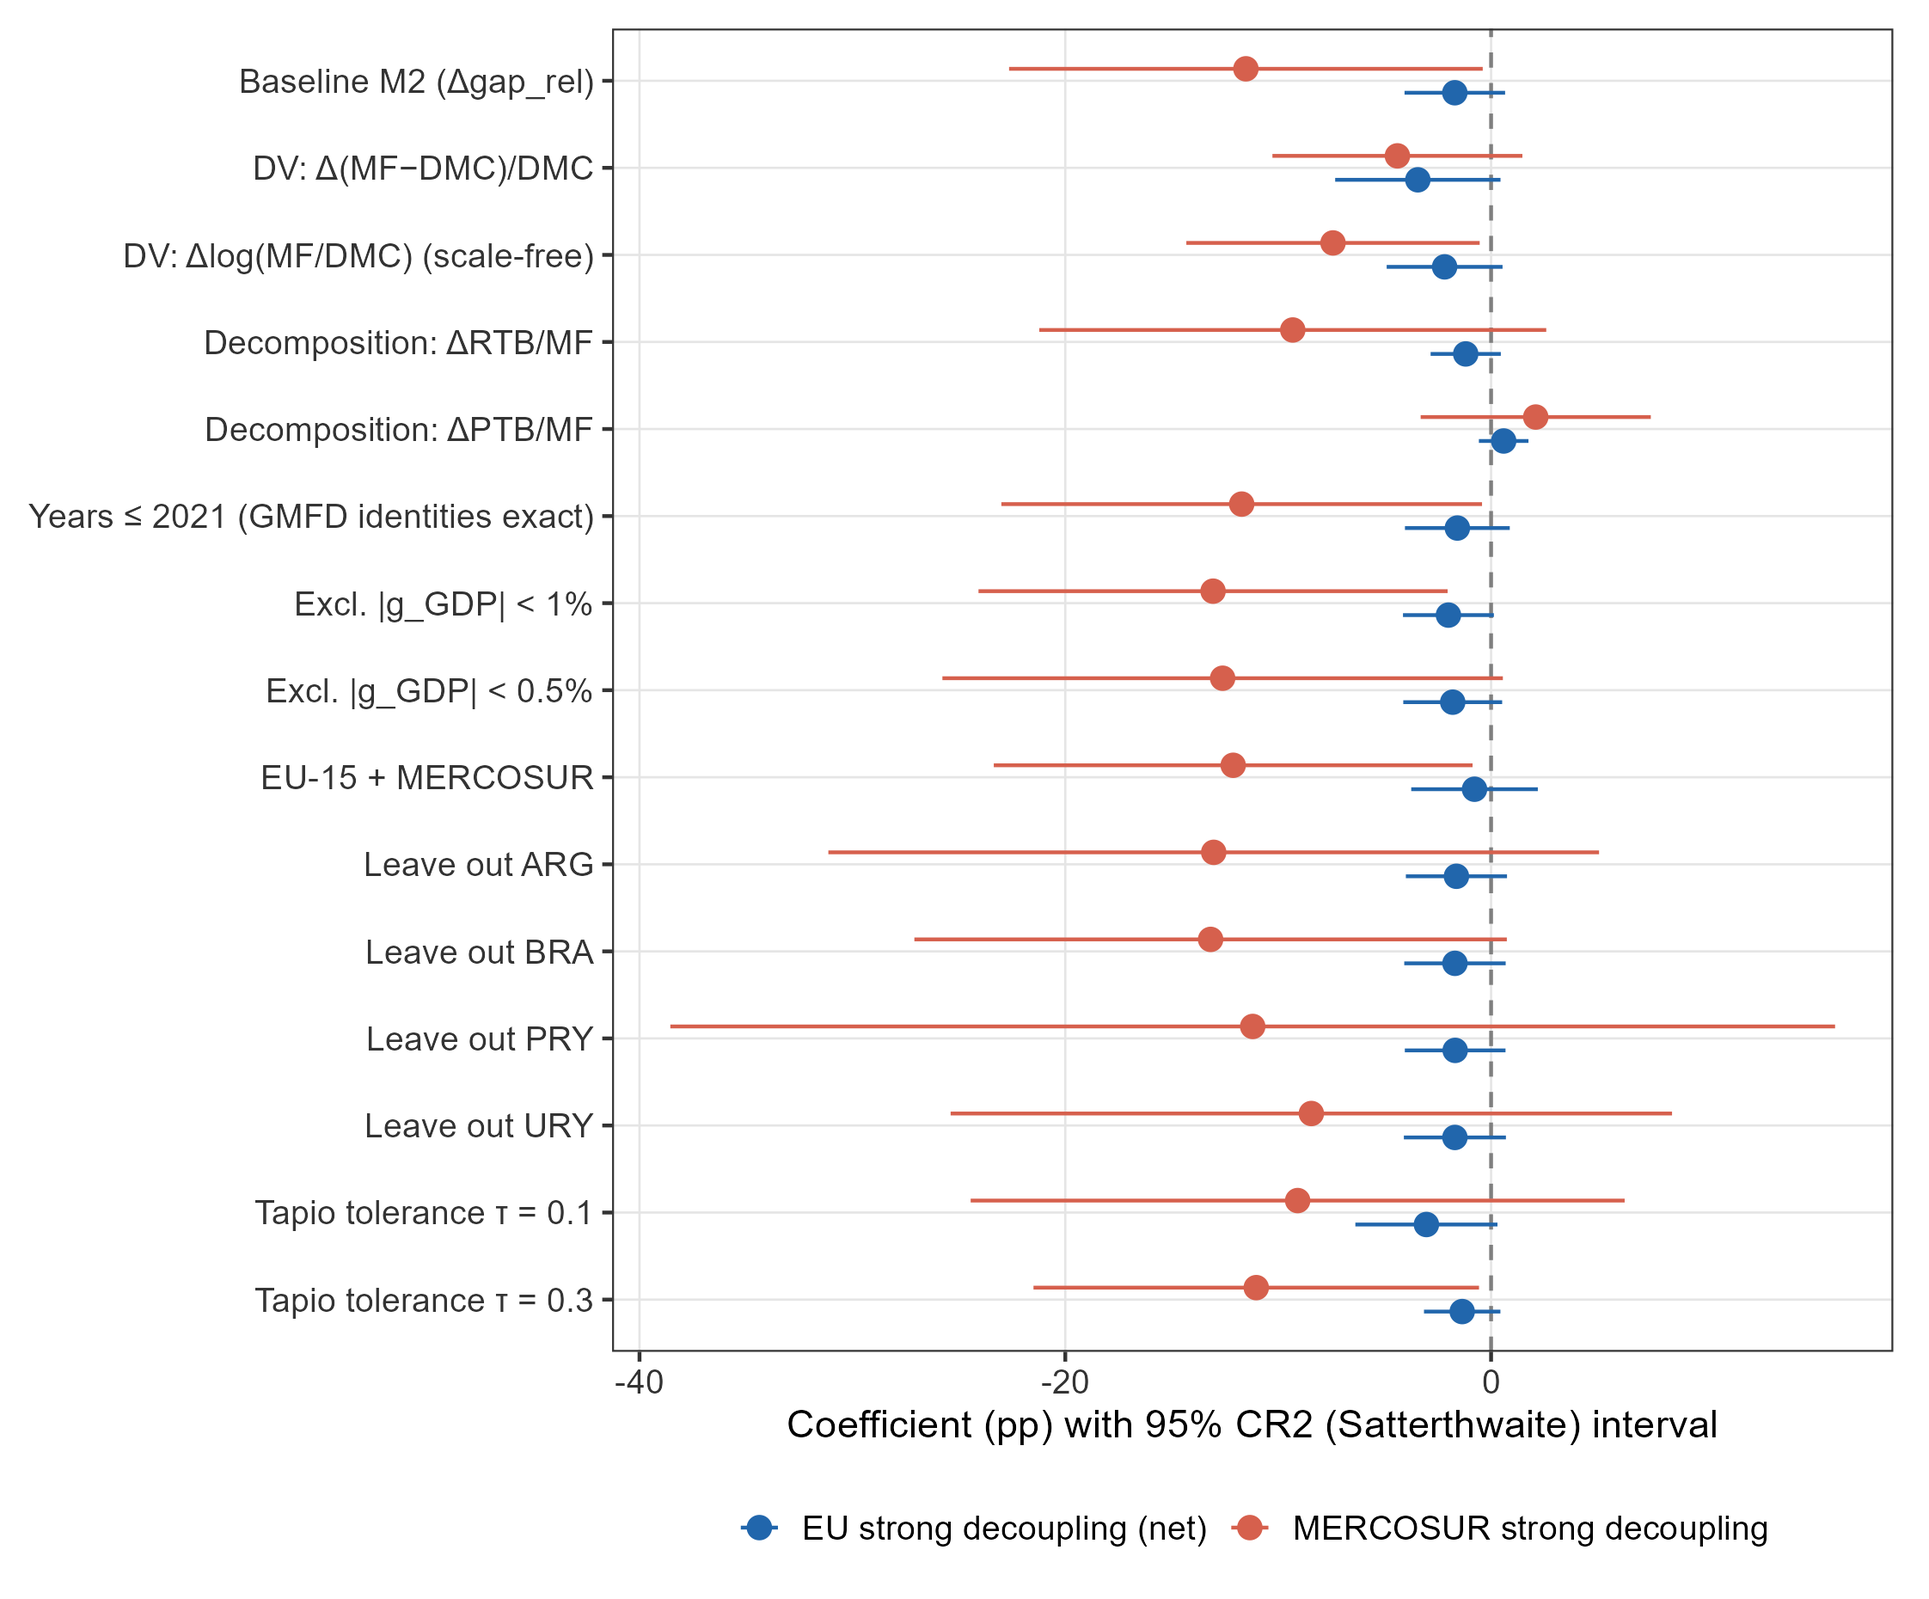
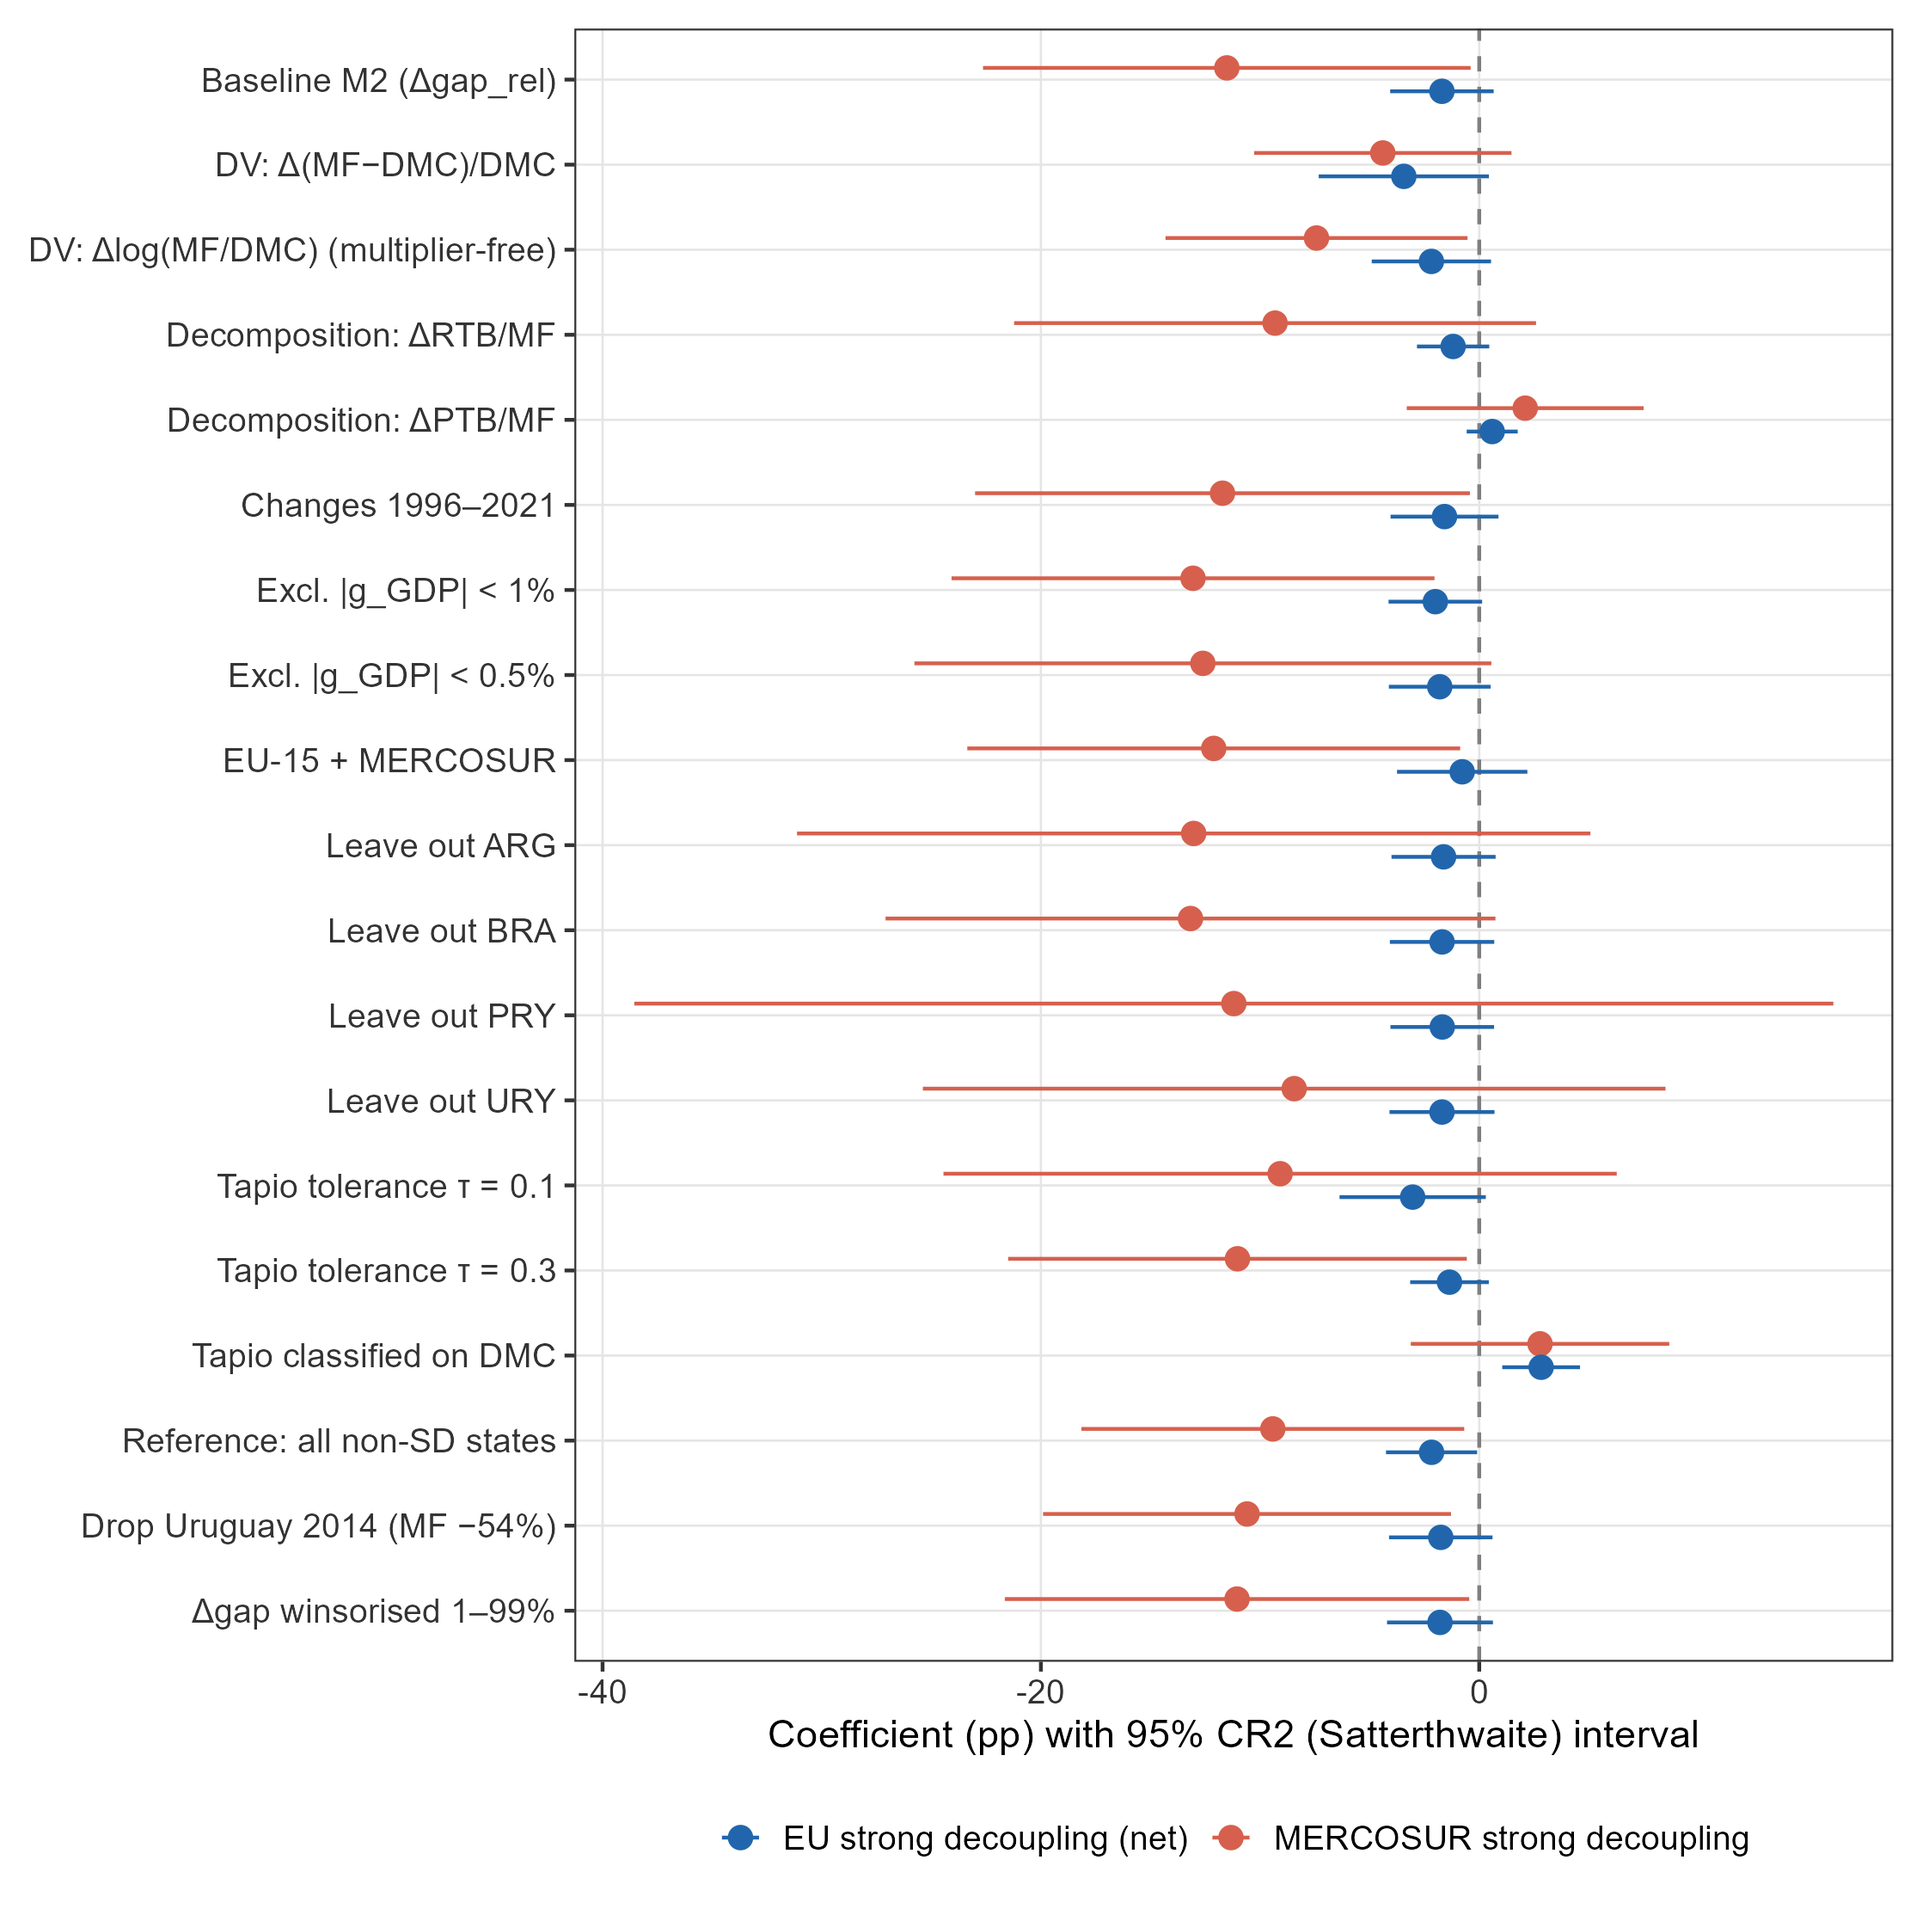
v1.4.1: audit fixes (global log-ratio lag bug, DMC placebo, permutation tests, K=2 bootstrap script)
- 07: both outcomes computed before filtering (previous version lagged the log
  ratio after filtering, losing each country's first year); groupings by median
  gap 1994-2021 and by early RTB/MF sign; unwinsorised variants; DMC placebo.
- 12_audit_checks.R (new): Tapio on DMC placebo, all-other-states reference,
  drop URY 2014, winsorised outcome; country-label permutation tests; stratified
  K=2 bootstrap (B = 2000) now in code.
- 10: forest plot includes the audit specifications.
- README: new script and tables.

Claude-Session: https://claude.ai/code/session_01HrmRDcM4ossY9U3EvkahNF

Changed region(s): [[0.0312, 0.0, 0.967, 0.9667]]

diff --git a/README.md b/README.md
@@ -12,7 +12,7 @@
 - **Indicator interpretation.** gap_rel = (MF − DMC)/MF = RTB/MF − PTB/MF: the share of the material footprint that DMC does not record (net upstream extraction embodied in trade). The companion ratio RTB/MF = 1 − DE/MF (net imported extraction) is now reported (`07_decomposition_global.R`).
 - **Small-cluster inference** for the four MERCOSUR clusters: CR2 + Satterthwaite, wild cluster restricted bootstrap (Webb weights, B = 9,999), exact randomisation inference over all C(31,4) = 31,465 assignments; robustness magnitudes with CR2 intervals (`08_small_cluster_inference.R`).
 - **HMM model selection** by leave-one-country-out cross-validation: K = 2 is selected and is now the main specification; K = 3 is a sensitivity analysis (`09_hmm_cv.R`).
-- **Global replication** on 158 countries, Tapio-tolerance robustness, country descriptives and mechanism descriptives (`07_decomposition_global.R`, `11_revision_r3.R`).
+- **Global replication** on 158 countries (with alternative groupings, unwinsorised outcomes and a DMC placebo), Tapio-tolerance robustness, country descriptives and mechanism descriptives (`07_decomposition_global.R`, `11_revision_r3.R`).
 - **Tapio nomenclature** in the recessive branch corrected to Tapio (2005): ε < 1 − τ is *weak negative decoupling* (WND) and ε > 1 + τ is *recessive decoupling* (RD). The partition is unchanged, so no estimate changed.
 
 ---
@@ -35,6 +35,7 @@ replication_repo/
 │   ├── 09_hmm_cv.R                  ← leave-one-country-out cross-validation of K
 │   ├── 10_revision_figures.R        ← Fig. 5 (CR2), Figs. S4–S5
 │   ├── 11_revision_r3.R             ← τ robustness, country descriptives, mechanism descriptives
+│   ├── 12_audit_checks.R            ← DMC placebo, reference/outlier checks, country-label permutation tests, K=2 bootstrap
 │   ├── _inference_helpers.R         ← M2 design matrix + CR2 fit (used by 08 and 11)
 │   └── _paper_theme.R               ← shared ggplot theme and export
 ├── data/processed/                  ← derived panels (see below)
@@ -66,6 +67,7 @@ source("R/08_small_cluster_inference.R") # ~5 min
 source("R/09_hmm_cv.R")                  # ~15 min; CV_REUSE=1 re-summarises saved folds
 source("R/10_revision_figures.R")
 source("R/11_revision_r3.R")
+source("R/12_audit_checks.R")          # ~5 min (31,465 permutations)
 ```
 
 ---
@@ -88,6 +90,9 @@ source("R/11_revision_r3.R")
 | `gap_descriptives_country.csv` | Country descriptive statistics (Table S14) |
 | `mechanism_sd_years_growth.csv` | Growth rates in strong-decoupling years (Table S15) |
 | `comtrade_gap_correlation.csv` | Export–gap Spearman correlations (Table S16) |
+| `regression_audit_checks.csv` | DMC placebo, all-other-states reference, outlier and winsorised checks (Table S10) |
+| `bloc_permutation_tests.csv` | Country-label permutation tests for bloc differences (Sections 3.3, 3.5) |
+| `hmm_k2_bootstrap.csv` | K = 2 bloc shares with within-bloc country bootstrap, B = 2,000 (Table S7) |
 
 ## Figures (file → paper)
 
